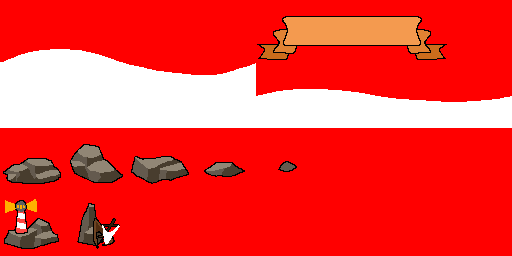
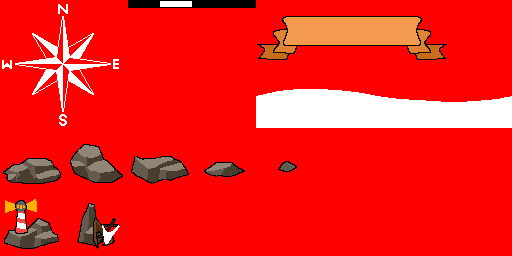
added map scale markings decoration

Changed region(s): [[0.0, 0.0, 0.5, 0.5], [0.25, 0.0, 0.5, 0.0312]]

diff --git a/src/menus/sortie_selection_menu.py b/src/menus/sortie_selection_menu.py
@@ -579,10 +579,41 @@ class SortieSelectionMenu:
                 count_pos = pygame.Vector2(rect.bottomright) - pygame.Vector2(2*Box.PADDING, 2*Box.PADDING)
                 font_registry["big_pixel"].render(surface, str(count), count_pos, Color.WHITE, 1, style="center", outline_color=Color.BLACK)
 
-        compass_rose = DataFiles.sprites["user_interface"]["compass_rose"]
+        compass_rose = DataFiles.sprites["sortie_selection"]["compass_rose"]
         compass_rose_rect = compass_rose.get_rect()
         compass_rose_rect.bottom = Box.BOTTOM_OF_SCREEN
         compass_rose_rect.left = Box.LEFT_OF_SCREEN
         surface.blit(compass_rose, compass_rose_rect)
+
+        map_scale = DataFiles.sprites["sortie_selection"]["map_scale"]
+        map_scale_rect = map_scale.get_rect()
+        map_scale_rect.bottom = Box.BOTTOM_OF_SCREEN
+        map_scale_rect.left = compass_rose_rect.right + Box.PADDING
+        surface.blit(map_scale, map_scale_rect)
+
+        for dist, x in zip([0, 50, 100, 200], [
+            map_scale_rect.left,
+            map_scale_rect.left + map_scale_rect.width * 0.25,
+            map_scale_rect.left + map_scale_rect.width * 0.5,
+            map_scale_rect.left + map_scale_rect.width
+        ]):
+            font_registry["big_pixel"].render(
+                surface,
+                str(dist),
+                pygame.Vector2(x, map_scale_rect.top - 10),
+                Color.WHITE,
+                1,
+                style="center",
+                outline_color=Color.BLACK
+            )
+        font_registry["big_pixel"].render(
+            surface,
+            "kilometers",
+            pygame.Vector2(map_scale_rect.right + Box.PADDING, map_scale_rect.centery),
+            Color.WHITE,
+            1,
+            style="centerleft",
+            outline_color=Color.BLACK
+        )
 
         self.exit_sortie_selection_menu_button.draw(surface, font_registry)
